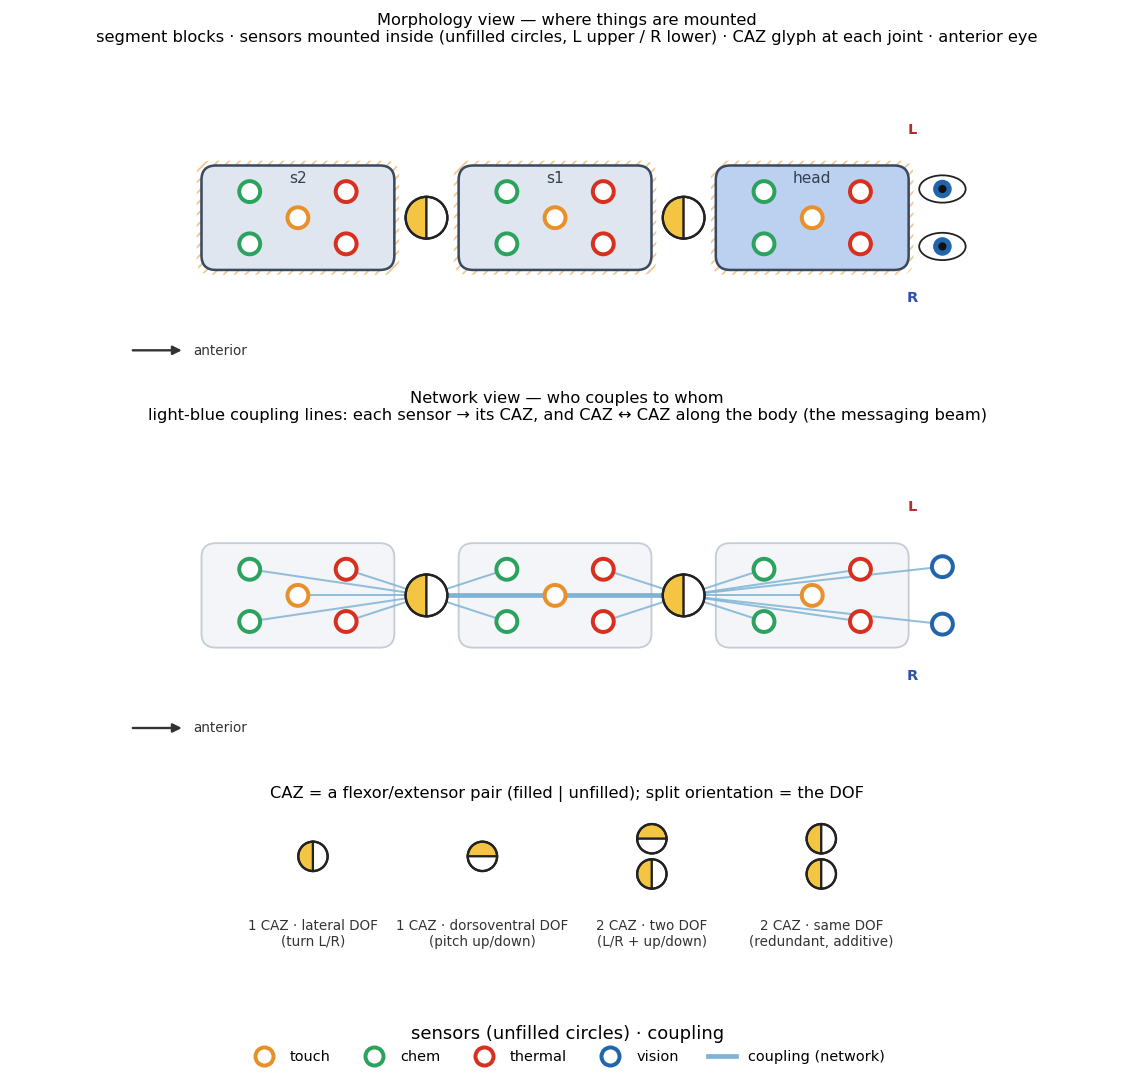
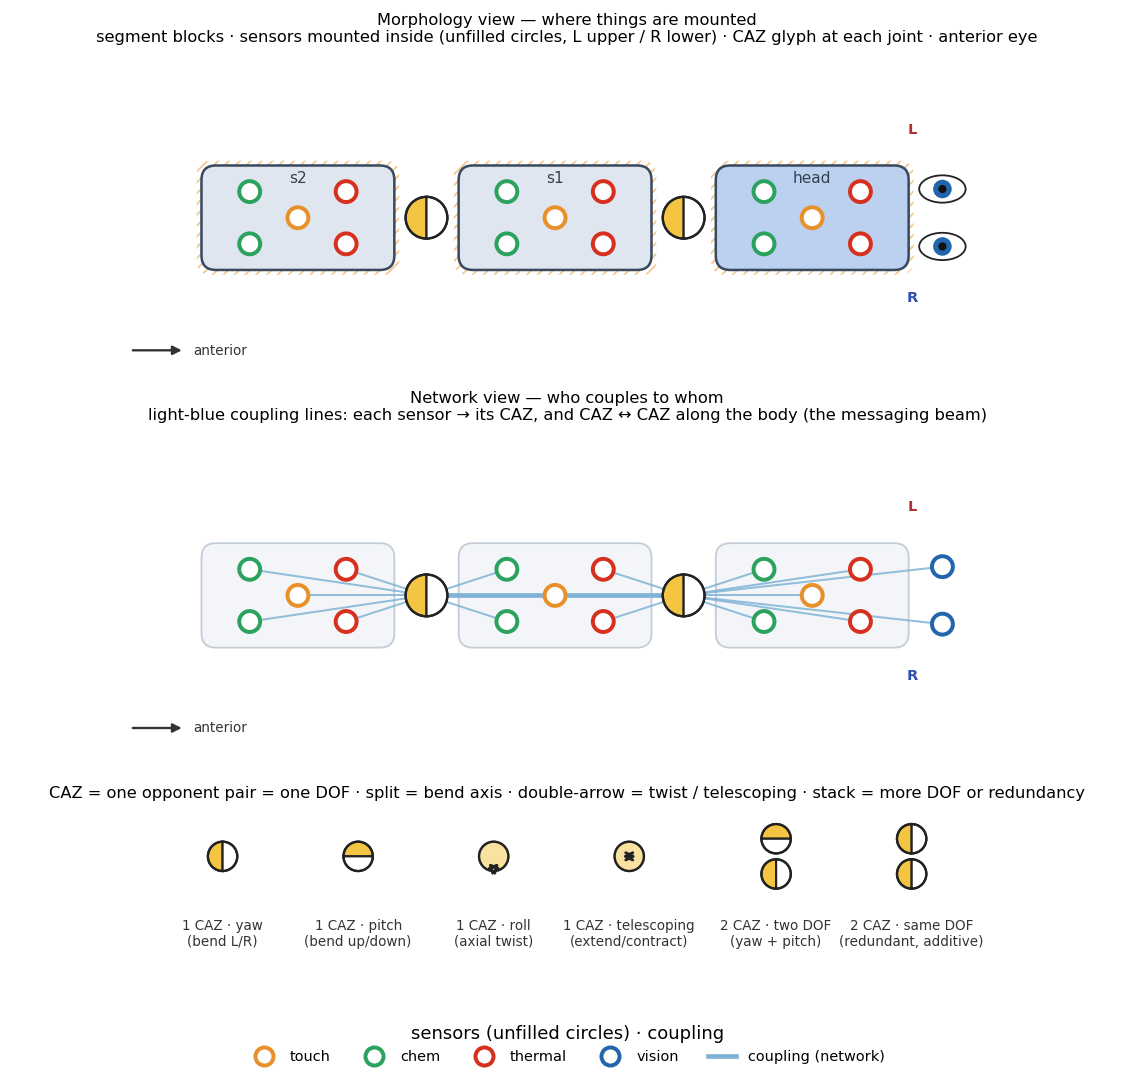
Finalize grammar: complete DOF vocabulary + extension roadmap
Make the grammar expressively complete enough to design complex agents:

- Add the roll (axial twist) and telescoping (axial extend/contract, peristalsis)
  DOFs alongside yaw and pitch. Bending DOFs render as a split circle (split =
  bend axis); twist/telescoping render as a curved/straight double-headed arrow
  (the two opposing pulls). One CAZ = one DOF holds for all four.
- The CAZ/DOF key now shows all four DOFs plus the two-DOF and redundant
  compositions.
- Document the design space: a DOF table, a locomotion table (swim/crawl/walk/
  fly), and an "Extending the grammar" roadmap (branching topology, anchor/
  gripper, medium models) -- all extensions WITHIN the existing abstractions
  (segment / CAZ / sensor / network), so the core grammar is final and grows as
  experiments demand.

diff --git a/smn_lab/morphology.py b/smn_lab/morphology.py
@@ -53,7 +53,10 @@ MODALITY_COLORS = {
 _DISTAL = {"vision": "eye", "audio": "ear"}      # which modalities are localizers
 CAZ_FILL = "#f4c542"             # the CAZ's flexor (filled) half
 NETWORK_COLOR = "#7fb3d5"        # the coupling network (light blue)
-DOFS = ("lateral", "dorsoventral")
+# The degrees of freedom a single CAZ (one opponent pair) can actuate. The two
+# bending DOFs read as a split circle (split orientation = bend axis); the twist
+# and telescoping DOFs read as a double-headed arrow (the two opposing pulls).
+DOFS = ("lateral", "dorsoventral", "roll", "telescoping")
 
 
 # ------------------------------------------------------------------ schema -----
@@ -68,7 +71,9 @@ class Transducer:
 @dataclass
 class CAZ:
     """One Coordinated Action Zone = one opponent (flexor/extensor) pair = one
-    degree of freedom. ``dof`` is 'lateral' or 'dorsoventral'."""
+    degree of freedom. ``dof`` is one of ``DOFS``: 'lateral' (yaw bend),
+    'dorsoventral' (pitch bend), 'roll' (axial twist), or 'telescoping' (axial
+    extend/contract -- peristalsis)."""
     dof: str = "lateral"
 
 
@@ -119,15 +124,29 @@ def crawler_schema(n_seg: int = 3, touch: bool = True,
 
 # ------------------------------------------------------------------ glyphs -----
 def caz_glyph(ax, x, y, r, dof="lateral", face_a=CAZ_FILL, face_b="white", z=6):
-    """A CAZ: a circle split in half along the DOF axis. ``face_a`` is the flexor
-    half (filled by default), ``face_b`` the extensor half (unfilled by default).
-    In the dynamics view both faces may carry state colors."""
-    if dof == "lateral":                  # vertical split: left | right
-        a, b = (90, 270), (-90, 90)
-    else:                                  # dorsoventral: top | bottom
-        a, b = (0, 180), (180, 360)
-    ax.add_patch(Wedge((x, y), r, *a, facecolor=face_a, edgecolor="#222", lw=1.2, zorder=z))
-    ax.add_patch(Wedge((x, y), r, *b, facecolor=face_b, edgecolor="#222", lw=1.2, zorder=z))
+    """A CAZ: one opponent pair = one degree of freedom.
+
+    Bending DOFs ('lateral', 'dorsoventral') are a circle split in half along the
+    bend axis (``face_a`` the flexor half, ``face_b`` the extensor half; in the
+    dynamics view both may carry state colors). The twist ('roll') and axial
+    ('telescoping') DOFs are a circle with a double-headed arrow showing the two
+    opposing pulls -- curved for twist, straight along the body axis for length."""
+    if dof in ("lateral", "dorsoventral"):
+        a, b = ((90, 270), (-90, 90)) if dof == "lateral" else ((0, 180), (180, 360))
+        ax.add_patch(Wedge((x, y), r, *a, facecolor=face_a, edgecolor="#222", lw=1.2, zorder=z))
+        ax.add_patch(Wedge((x, y), r, *b, facecolor=face_b, edgecolor="#222", lw=1.2, zorder=z))
+    else:
+        ax.add_patch(Circle((x, y), r, facecolor=face_a, edgecolor="#222", lw=1.2,
+                            zorder=z, alpha=0.5))
+        if dof == "telescoping":          # straight double arrow along the axis
+            ax.annotate("", xy=(x + 0.72 * r, y), xytext=(x - 0.72 * r, y),
+                        arrowprops=dict(arrowstyle="<->", color="#222", lw=1.6),
+                        zorder=z + 2)
+        else:                              # roll: curved double arrow (twist)
+            ax.annotate("", xy=(x + 0.5 * r, y - 0.25 * r),
+                        xytext=(x - 0.5 * r, y - 0.25 * r),
+                        arrowprops=dict(arrowstyle="<->", color="#222", lw=1.6,
+                                        connectionstyle="arc3,rad=0.8"), zorder=z + 2)
     ax.add_patch(Circle((x, y), r, facecolor="none", edgecolor="#222", lw=1.3, zorder=z + 1))
 
 
@@ -316,22 +335,21 @@ def modality_legend(ax, modalities=None, with_network=True):
 def caz_key(ax):
     """A small key showing how the CAZ glyph encodes degrees of freedom."""
     items = [
-        (0.0, "lateral",      [CAZ("lateral")],
-         "1 CAZ · lateral DOF\n(turn L/R)"),
-        (3.0, "dorsoventral", [CAZ("dorsoventral")],
-         "1 CAZ · dorsoventral DOF\n(pitch up/down)"),
-        (6.0, "two_dof",      [CAZ("lateral"), CAZ("dorsoventral")],
-         "2 CAZ · two DOF\n(L/R + up/down)"),
-        (9.0, "redundant",    [CAZ("lateral"), CAZ("lateral")],
-         "2 CAZ · same DOF\n(redundant, additive)"),
+        (0.0,  [CAZ("lateral")],      "1 CAZ · yaw\n(bend L/R)"),
+        (2.4,  [CAZ("dorsoventral")], "1 CAZ · pitch\n(bend up/down)"),
+        (4.8,  [CAZ("roll")],         "1 CAZ · roll\n(axial twist)"),
+        (7.2,  [CAZ("telescoping")],  "1 CAZ · telescoping\n(extend/contract)"),
+        (9.8,  [CAZ("lateral"), CAZ("dorsoventral")], "2 CAZ · two DOF\n(yaw + pitch)"),
+        (12.2, [CAZ("lateral"), CAZ("lateral")],      "2 CAZ · same DOF\n(redundant, additive)"),
     ]
-    for x0, _, cazs, label in items:
+    for x0, cazs, label in items:
         for (xx, yy, dof) in _caz_sites(cazs, x0, 0.26):
             caz_glyph(ax, xx, yy + 0.25, 0.26, dof=dof)
         ax.text(x0, -0.85, label, ha="center", va="top", fontsize=7.5, color="#333")
-    ax.set_xlim(-1.5, 10.5)
+    ax.set_xlim(-1.4, 13.6)
     ax.set_ylim(-1.7, 1.1)
     ax.set_aspect("equal")
-    ax.set_title("CAZ = a flexor/extensor pair (filled | unfilled); "
-                 "split orientation = the DOF", fontsize=9)
+    ax.set_title("CAZ = one opponent pair = one DOF · split = bend axis · "
+                 "double-arrow = twist / telescoping · stack = more DOF or redundancy",
+                 fontsize=9)
     ax.axis("off")

diff --git a/docs/diagram-grammar.md b/docs/diagram-grammar.md
@@ -39,23 +39,59 @@ The grammar gives the same body **two views**, sharing one vocabulary:
 ## CAZ and degrees of freedom
 
 The CAZ is the one glyph of our own. A **Coordinated Action Zone is one
-flexor/extensor opponent pair = one degree of freedom**, drawn as a single circle
-split into a filled half (flexor pull) and an unfilled half (extensor pull). The
-**orientation of the split encodes the DOF axis**:
+flexor/extensor opponent pair = one degree of freedom**. A joint between two
+bodies admits at most six DOF (three rotational, three translational); the four
+that matter for creatures, and their glyphs:
 
-- **vertical split** (left ∣ right) → **lateral bend** (turn left/right);
-- **horizontal split** (top ∣ bottom) → **dorsoventral bend** (pitch up/down).
+| DOF | motion | axis | glyph |
+|---|---|---|---|
+| **yaw** | lateral bend (turn L/R) | dorsoventral | circle, **vertical split** |
+| **pitch** | dorsoventral bend (up/down) | lateral | circle, **horizontal split** |
+| **roll** | axial twist | anteroposterior | circle, **curved double-arrow** |
+| **telescoping** | axial extend/contract (peristalsis) | anteroposterior | circle, **straight double-arrow** |
 
-So a joint's degrees of freedom are read directly off its CAZ glyphs:
+The two **bending** DOFs read as a split circle (split orientation = the bend
+axis; filled half = flexor, unfilled = extensor). The **twist** and **axial**
+DOFs read as a double-headed arrow showing the two opposing pulls (curved for
+twist, straight along the body for length).
 
-- a **single split circle** → a single-DOF joint;
-- **two circles of different orientation** → a two-DOF joint (e.g. L/R + up/down);
-- **two circles of the same orientation** → a redundant pair adding force on the
-  one DOF.
+A joint's degrees of freedom are read directly off its CAZ glyphs:
+
+- a **single CAZ** → a single-DOF joint;
+- **two CAZs of different kind** → a multi-DOF joint (e.g. yaw + pitch);
+- **two CAZs of the same kind** → a redundant pair adding force on one DOF.
 
 This is why segments that share a single DOF show only one CAZ: the CAZ is always
-a pair (the two halves), and adding another CAZ adds either a new DOF or
+a pair (the two opposing pulls), and adding another CAZ adds either a new DOF or
 additive force — never a lone actuator.
+
+## Building complex agents — and extending the grammar
+
+The grammar is meant to compose *complex* creatures from these few components.
+What the current components already support:
+
+| locomotion | recipe | status |
+|---|---|---|
+| **swimming** (undulatory) | yaw wave + anisotropic medium | ✓ (see [C0](experiments/c0_crawler.md)) |
+| **crawling** (undulatory) | yaw wave + ground contact | ✓ (see [C1](experiments/c1_touch.md)) |
+| **crawling** (peristaltic) | telescoping DOF + anchoring | DOF ✓ · anchor → roadmap |
+| **walking** | branching legs (multi-DOF) + load contact | branching → roadmap |
+| **flying** | branching wings + roll + a lift medium | branching/medium → roadmap |
+
+The remaining needs are **extensions within the same abstractions**, not changes
+to them — which is why the grammar can be treated as final and grown as
+experiments demand:
+
+- **Branching topology** — appendages (legs, wings, fins) are sub-chains that
+  branch off the axial chain. *A body is a graph of segments; a branch is a
+  segment attached to a segment.* The schema becomes a tree rather than a list;
+  the node types are unchanged.
+- **Anchor / gripper** — an *actuated* contact (a foot that grips and releases, a
+  sucker, setae) for peristalsis, inchworming, and climbing. One more node type,
+  alongside the sensor.
+- **Medium models** — swimming uses anisotropic drag and walking uses ground
+  reaction (both present); flying additionally needs a lift model. This is a
+  physics layer, orthogonal to the diagram grammar.
 
 ## Fixed conventions
 